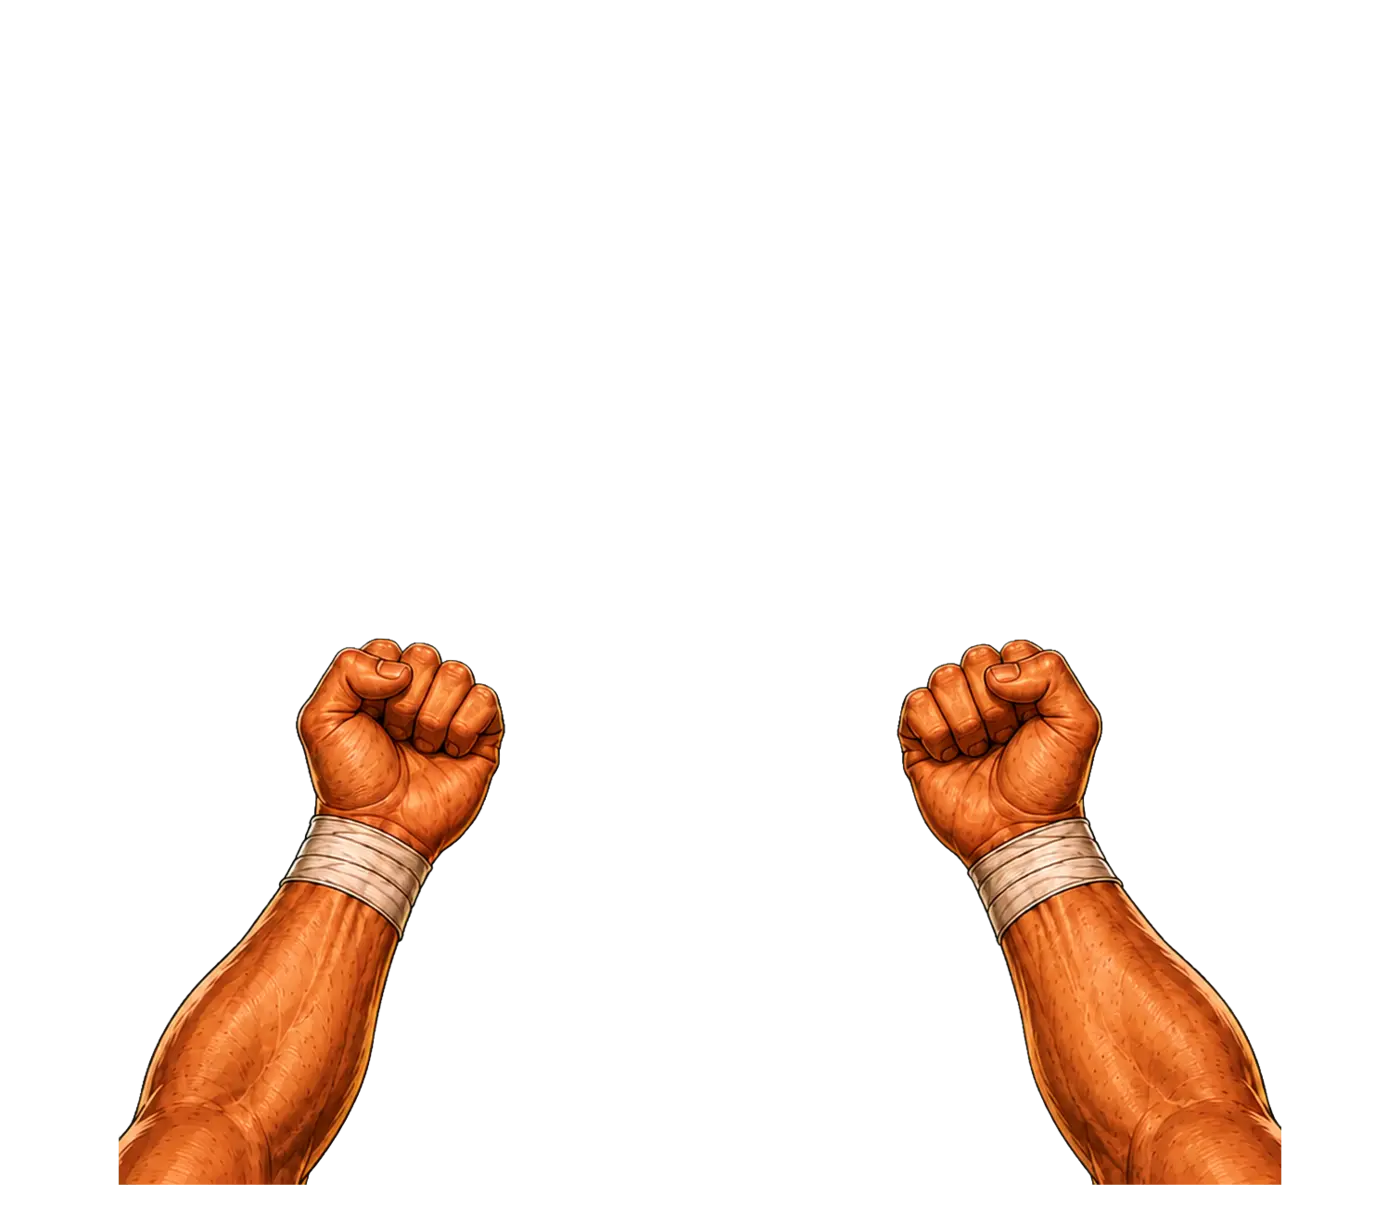
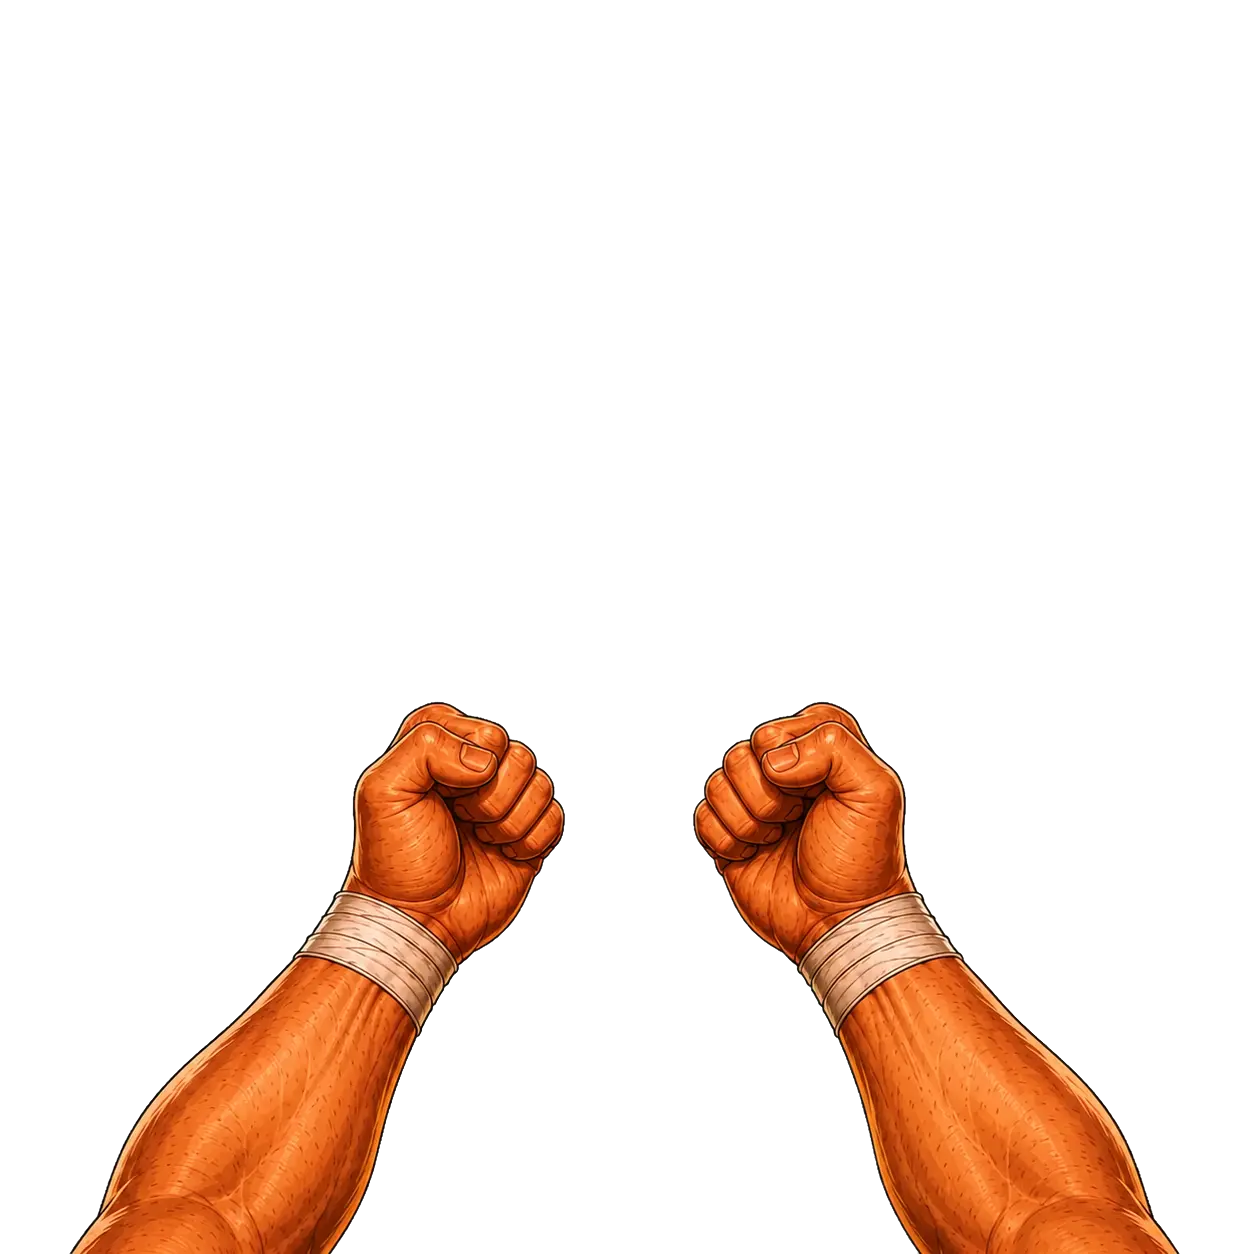
Add files via upload

Changed region(s): [[0.5287, 0.5211, 0.933, 1.0], [0.0622, 0.5211, 0.4665, 1.0]]

diff --git a/src/Game.tsx b/src/Game.tsx
@@ -33,6 +33,7 @@ type PlayerPose =
   | "block"
   | "hit";
 type DodgeDirection = "left" | "right" | null;
+type ResultReason = "knockout" | "time";
 
 const MAX_HEALTH = 100;
 const ROUND_TIME = 90;
@@ -46,6 +47,8 @@ const POSE_ASSETS = [
   asset("/opponent-hit-jab.webp"), asset("/opponent-hit-cross.webp"), asset("/opponent-hit-body.webp"),
   asset("/player-guard.webp"), asset("/player-jab-left.webp"), asset("/player-cross-right.webp"),
   asset("/player-body-hook.webp"), asset("/player-block.webp"), asset("/player-hit.webp"), asset("/opponent-victory.webp"),
+  asset("/opponent-victory-left.webp"), asset("/opponent-victory-right.webp"),
+  asset("/championship-belt.webp"),
 ];
 
 function clamp(value: number, min = 0, max = 100) {
@@ -82,6 +85,7 @@ export default function Home() {
   const [enemyCount, setEnemyCount] = useState(1);
   const [enemyRiseAt, setEnemyRiseAt] = useState<number | null>(null);
   const [performanceMode, setPerformanceMode] = useState(false);
+  const [resultReason, setResultReason] = useState<ResultReason>("knockout");
 
   const matchRef = useRef(matchState);
   const enemyHealthRef = useRef(enemyHealth);
@@ -274,8 +278,9 @@ export default function Home() {
     osc.stop(now + (kind === "ko" ? 0.9 : 0.15));
   }, []);
 
-  const finishMatch = useCallback((result: "won" | "lost") => {
+  const finishMatch = useCallback((result: "won" | "lost", reason: ResultReason = "knockout") => {
     const resultActionId = ++playerActionRef.current;
+    setResultReason(reason);
     matchRef.current = result;
     setMatchState(result);
     setShowRematch(false);
@@ -287,6 +292,10 @@ export default function Home() {
       setEnemyPoseSafe("knockout");
       setCallout("KNOCKOUT!");
       playSound("ko");
+    } else if (reason === "time") {
+      setPlayerPose("idle");
+      setCallout("TIME'S UP!");
+      playSound("bell");
     } else {
       setPlayerPose("hit");
       setCallout("YOU'RE DOWN");
@@ -313,6 +322,7 @@ export default function Home() {
     setGuard(100);
     guardRef.current = 100;
     setTimer(ROUND_TIME);
+    setResultReason("knockout");
     setEnemyPoseSafe("idle");
     setPlayerPose("idle");
     setDodgeDirection(null);
@@ -471,7 +481,7 @@ export default function Home() {
       setTimer((value) => {
         if (value <= 1) {
           const result = enemyHealthRef.current < playerHealthRef.current ? "won" : "lost";
-          finishMatch(result);
+          finishMatch(result, "time");
           return 0;
         }
         return value - 1;
@@ -1034,12 +1044,20 @@ export default function Home() {
             {matchState === "lost" ? (
               <>
                 <div className="defeat-scene" aria-hidden="true">
-                  <img className="victory-mohawk" src={asset("/opponent-victory.webp")} alt="" draggable={false} />
-                  <img className="defeated-player" src={asset("/player-hit.webp")} alt="" draggable={false} />
+                  <div className="victory-mohawk-stage">
+                    <img className="victory-mohawk victory-both" src={asset("/opponent-victory.webp")} alt="" draggable={false} />
+                    <img className="victory-mohawk victory-left" src={asset("/opponent-victory-left.webp")} alt="" draggable={false} />
+                    <img className="victory-mohawk victory-right" src={asset("/opponent-victory-right.webp")} alt="" draggable={false} />
+                  </div>
+                  {resultReason === "knockout" && <img className="defeated-player" src={asset("/player-hit.webp")} alt="" draggable={false} />}
                 </div>
-                <div className="defeat-copy">
-                  <p>OFFICIAL RESULT · KNOCKOUT</p>
-                  <h2>THE MOHAWK WINS</h2>
+                <div className={`defeat-copy ${resultReason === "time" ? "time-result" : ""}`}>
+                  <p>{resultReason === "time" ? "OFFICIAL RESULT · TIME LIMIT" : "OFFICIAL RESULT · KNOCKOUT"}</p>
+                  {resultReason === "time" ? (
+                    <h2><span>TIME'S UP!</span><small>MOHAWK WINS</small></h2>
+                  ) : (
+                    <h2>THE MOHAWK WINS</h2>
+                  )}
                   <div className="result-stats">
                     <span><em>SCORE</em><strong>{score.toLocaleString()}</strong></span>
                     <span><em>KNOCKDOWNS</em><strong>{playerKnockdowns}</strong></span>
@@ -1055,10 +1073,9 @@ export default function Home() {
             ) : (
               <div className="champion-screen">
                 <div className="gold-confetti" aria-hidden="true">
-                  {Array.from({ length: 18 }).map((_, index) => <i key={index} />)}
+                  {Array.from({ length: 32 }).map((_, index) => <i key={index} />)}
                 </div>
-                <img className="fallen-mohawk" src={asset("/opponent-guard.webp")} alt="" draggable={false} />
-                <img className="champion-arms" src={asset("/player-block.webp")} alt="" draggable={false} />
+                <img className="championship-belt" src={asset("/championship-belt.webp")} alt="Gold championship belt with black leather" draggable={false} />
                 <div className="champion-copy">
                   <p>FOUR KNOCKDOWNS · TEN COUNT</p>
                   <h2>YOU DEFEATED<br /><span>THE MOHAWK</span></h2>

diff --git a/src/styles.css b/src/styles.css
@@ -260,7 +260,7 @@ button { font: inherit; touch-action:manipulation; -webkit-user-select:none; use
 .player-jab-left .player-main-art { animation:jabPose 145ms cubic-bezier(.12,.78,.18,1) both; transform-origin:38% 86%; }
 .player-cross-right .player-main-art { animation:crossPose 175ms cubic-bezier(.08,.72,.16,1) both; transform-origin:68% 88%; }
 .player-body-hook .player-main-art { animation:bodyHookPose 175ms cubic-bezier(.12,.74,.2,1) both; transform-origin:32% 88%; }
-.player-block .player-pose-art { width:78%; height:78%; bottom:-4%; }
+.player-block .player-pose-art { width:78%; height:78%; bottom:8%; }
 .arm { position:absolute; bottom:-9%; width:13.5%; height:38%; border-radius:45% 45% 17% 17%; background:linear-gradient(90deg,#5a2719,#ad5735 35%,#d48355 63%,#71301d); box-shadow:inset -10px -3px 15px rgba(49,15,8,.45),0 10px 20px #000; transform-origin:50% 100%; transition:transform .13s cubic-bezier(.2,.8,.2,1); }
 .arm-left { left:19%; transform:rotate(14deg); }
 .arm-right { right:19%; transform:rotate(-14deg); }
@@ -348,20 +348,31 @@ button { font: inherit; touch-action:manipulation; -webkit-user-select:none; use
 .result-overlay .fight-button { width:min(360px,70vw); }
 .result-overlay.lost { overflow:hidden; background:radial-gradient(circle at 50% 43%,rgba(66,34,19,.42),rgba(3,4,3,.94) 76%); }
 .defeat-scene { position:absolute; z-index:1; inset:0; overflow:hidden; pointer-events:none; }
-.victory-mohawk { position:absolute; left:50%; bottom:3%; width:min(66%,820px); height:88%; object-fit:contain; object-position:center bottom; transform:translateX(-50%); filter:drop-shadow(0 14px 16px #000); animation:victoryRise .7s cubic-bezier(.15,.8,.2,1) both; }
+.victory-mohawk-stage { position:absolute; left:50%; bottom:3%; width:min(66%,820px); height:88%; transform:translateX(-50%); animation:victoryRise .7s cubic-bezier(.15,.8,.2,1) both; }
+.victory-mohawk { position:absolute; inset:0; width:100%; height:100%; object-fit:contain; object-position:center bottom; filter:drop-shadow(0 14px 16px #000); opacity:0; }
+.victory-both { animation:victoryBothCycle 8s steps(1,end) infinite; }
+.victory-left { animation:victoryLeftCycle 8s steps(1,end) infinite; }
+.victory-right { animation:victoryRightCycle 8s steps(1,end) infinite; }
 .defeated-player { position:absolute; z-index:2; left:50%; bottom:-30%; width:min(92%,1100px); height:68%; object-fit:contain; object-position:center bottom; transform:translateX(-50%) rotate(5deg); opacity:.78; filter:brightness(.48) saturate(.7) drop-shadow(0 -8px 12px #000); }
 .defeat-copy { position:absolute; z-index:4; inset:3% 4% 4%; display:flex; flex-direction:column; align-items:center; text-align:center; pointer-events:none; }
 .defeat-copy>p { margin:0; color:var(--gold); font:900 clamp(.56rem,1vw,.9rem)/1 Arial,sans-serif; letter-spacing:.2em; }
 .defeat-copy h2 { margin:.25rem 0 .6rem; color:#f3ecdf; font-size:clamp(2.4rem,6vw,6rem); line-height:.86; text-shadow:5px 6px var(--blood),9px 10px #000; }
+.defeat-copy.time-result h2 { display:flex; flex-direction:column; gap:.14em; margin:.35rem 0 .7rem; }
+.defeat-copy.time-result h2 span { color:var(--gold); font-size:1.08em; letter-spacing:.01em; }
+.defeat-copy.time-result h2 small { color:#f3ecdf; font:1000 .52em/.9 Impact,Haettenschweiler,"Arial Narrow Bold",sans-serif; letter-spacing:.075em; text-shadow:4px 5px var(--blood),8px 9px #000; }
 .defeat-copy .result-stats { margin:0; }
 .defeat-copy .rematch-button { margin-top:auto; pointer-events:auto; animation:rematchReveal .38s ease-out both; }
 .victory-delay { margin-top:auto; width:min(360px,70vw); padding:1rem; color:var(--gold); background:#080908bb; border:1px solid #6d5941; font:900 clamp(.7rem,1vw,.9rem)/1 Arial,sans-serif; letter-spacing:.14em; animation:victoryPulse .6s ease-in-out infinite alternate; }
 @keyframes victoryRise { from{transform:translateX(-50%) translateY(8%) scale(.92);opacity:0} to{transform:translateX(-50%);opacity:1} }
+@keyframes victoryBothCycle { 0%,24.99%,75%,100%{opacity:1}25%,74.99%{opacity:0} }
+@keyframes victoryLeftCycle { 0%,24.99%,50%,100%{opacity:0}25%,49.99%{opacity:1} }
+@keyframes victoryRightCycle { 0%,49.99%,75%,100%{opacity:0}50%,74.99%{opacity:1} }
 @keyframes rematchReveal { from{opacity:0;transform:translateY(18px)} to{opacity:1;transform:translateY(0)} }
 @keyframes victoryPulse { to{color:#fff;border-color:var(--gold)} }
 
 .result-overlay.won { overflow:hidden; background:radial-gradient(circle at 50% 38%,rgba(92,57,16,.45),rgba(3,4,3,.93) 75%); }
 .champion-screen { position:absolute; inset:0; overflow:hidden; }
+.championship-belt { position:absolute; z-index:3; left:50%; top:52%; width:min(74%,980px); height:auto; transform:translate(-50%,-50%); object-fit:contain; filter:drop-shadow(0 18px 22px #000) brightness(1.03); animation:beltVictory 1.05s cubic-bezier(.12,.82,.18,1) both,beltShimmer 1.8s ease-in-out 1.05s infinite alternate; }
 .fallen-mohawk { position:absolute; z-index:1; left:50%; bottom:-32%; width:min(58%,700px); height:70%; object-fit:contain; transform:translateX(-50%) rotate(78deg); filter:brightness(.38) saturate(.55); opacity:.78; }
 .champion-arms { position:absolute; z-index:3; left:50%; bottom:-17%; width:min(82%,1050px); height:72%; object-fit:contain; transform:translateX(-50%) scale(1.12); filter:drop-shadow(0 -8px 12px #000); animation:championArmsRise .72s cubic-bezier(.12,.82,.18,1) both; }
 .champion-copy { position:absolute; z-index:5; inset:4% 4% 4%; display:flex; flex-direction:column; align-items:center; text-align:center; pointer-events:none; }
@@ -372,9 +383,14 @@ button { font: inherit; touch-action:manipulation; -webkit-user-select:none; use
 .champion-copy .result-stats { margin:0; }
 .champion-copy .rematch-button { margin-top:auto; pointer-events:auto; animation:rematchReveal .38s ease-out both; }
 .gold-confetti { position:absolute; z-index:4; inset:0; pointer-events:none; }
-.gold-confetti i { position:absolute; top:-8%; left:calc((var(--n, 1) * 5.25%)); width:8px; height:18px; background:var(--gold); box-shadow:0 0 5px #000; animation:confettiFall 2.2s linear infinite; animation-delay:calc(var(--n, 1) * -.13s); transform:rotate(calc(var(--n, 1) * 19deg)); }
+.gold-confetti i { position:absolute; top:-10%; left:calc((var(--n, 1) * 3.05%)); width:10px; height:20px; border-radius:2px; background:linear-gradient(90deg,#8c5510,#ffe783 45%,#d49019 72%,#6d3e09); box-shadow:0 0 8px rgba(255,198,55,.65),0 2px 4px #000; animation:confettiFall 2.35s linear infinite; animation-delay:calc(var(--n, 1) * -.11s); transform:rotate(calc(var(--n, 1) * 19deg)); }
+.gold-confetti i:nth-child(3n) { width:14px; height:14px; border-radius:50%; background:radial-gradient(circle at 35% 30%,#fff0a0,#e2a325 48%,#7a450b 78%); }
+.gold-confetti i:nth-child(4n) { width:7px; height:25px; }
 .gold-confetti i:nth-child(1){--n:1}.gold-confetti i:nth-child(2){--n:2}.gold-confetti i:nth-child(3){--n:3}.gold-confetti i:nth-child(4){--n:4}.gold-confetti i:nth-child(5){--n:5}.gold-confetti i:nth-child(6){--n:6}.gold-confetti i:nth-child(7){--n:7}.gold-confetti i:nth-child(8){--n:8}.gold-confetti i:nth-child(9){--n:9}.gold-confetti i:nth-child(10){--n:10}.gold-confetti i:nth-child(11){--n:11}.gold-confetti i:nth-child(12){--n:12}.gold-confetti i:nth-child(13){--n:13}.gold-confetti i:nth-child(14){--n:14}.gold-confetti i:nth-child(15){--n:15}.gold-confetti i:nth-child(16){--n:16}.gold-confetti i:nth-child(17){--n:17}.gold-confetti i:nth-child(18){--n:18}
+.gold-confetti i:nth-child(19){--n:19}.gold-confetti i:nth-child(20){--n:20}.gold-confetti i:nth-child(21){--n:21}.gold-confetti i:nth-child(22){--n:22}.gold-confetti i:nth-child(23){--n:23}.gold-confetti i:nth-child(24){--n:24}.gold-confetti i:nth-child(25){--n:25}.gold-confetti i:nth-child(26){--n:26}.gold-confetti i:nth-child(27){--n:27}.gold-confetti i:nth-child(28){--n:28}.gold-confetti i:nth-child(29){--n:29}.gold-confetti i:nth-child(30){--n:30}.gold-confetti i:nth-child(31){--n:31}.gold-confetti i:nth-child(32){--n:32}
 @keyframes confettiFall { to{translate:calc((var(--n, 1) - 9) * 2px) 115vh;rotate:540deg} }
+@keyframes beltVictory { from{transform:translate(-50%,-42%) scale(.72);opacity:0;filter:drop-shadow(0 8px 10px #000) brightness(.7)} to{transform:translate(-50%,-50%) scale(1);opacity:1} }
+@keyframes beltShimmer { from{filter:drop-shadow(0 18px 22px #000) brightness(.96) saturate(.96)} to{filter:drop-shadow(0 18px 25px #000) brightness(1.18) saturate(1.12)} }
 @keyframes championArmsRise { from{transform:translateX(-50%) translateY(24%) scale(.9);opacity:0} to{transform:translateX(-50%) scale(1.12);opacity:1} }
 
 .knockdown-overlay { z-index:72; display:flex; flex-direction:column; justify-content:center; gap:.35rem; padding:5%; color:#f4ecdf; text-align:center; background:radial-gradient(circle,rgba(91,20,13,.42),rgba(3,4,3,.92) 68%); }
@@ -419,13 +435,13 @@ button { font: inherit; touch-action:manipulation; -webkit-user-select:none; use
 @keyframes playerHit { 30%{transform:translateY(5%) rotate(3deg) scale(1.06)} }
 @keyframes jabPose {
   0% { transform:translateX(-50%) translate(-5%,7%) scale(.86); filter:drop-shadow(0 9px 10px #120605aa) blur(.7px); }
-  52% { transform:translateX(-50%) translate(1%,-2%) scale(1.025); }
+  52% { transform:translateX(-50%) translate(7%,-3%) scale(1.025); }
   100% { transform:translateX(-50%) scale(1); filter:drop-shadow(0 9px 10px #120605aa); }
 }
 @keyframes crossPose {
   0% { transform:translateX(-50%) translate(9%,9%) rotate(7deg) scale(.82); filter:drop-shadow(0 9px 10px #120605aa) blur(.8px); }
-  56% { transform:translateX(-50%) translate(-3%,-4%) rotate(-4deg) scale(1.07); }
-  100% { transform:translateX(-50%) translate(-1%,-1%) rotate(-2deg) scale(1.025); filter:drop-shadow(0 11px 12px #120605cc); }
+  56% { transform:translateX(-50%) translate(-11%,-5%) rotate(-3deg) scale(1.07); }
+  100% { transform:translateX(-50%) translate(-2%,-1%) rotate(-1deg) scale(1.025); filter:drop-shadow(0 11px 12px #120605cc); }
 }
 @keyframes bodyHookPose {
   0% { transform:translateX(-50%) translate(-13%,12%) rotate(-12deg) scale(.82); filter:drop-shadow(0 9px 10px #120605aa) blur(.8px); }
@@ -488,7 +504,7 @@ button { font: inherit; touch-action:manipulation; -webkit-user-select:none; use
   .preload-overlay { display:grid; padding:10vh 7vw 12vh; gap:3rem; }
   .preload-lockup h1 { font-size:17vw; }
   .preload-status { width:86vw; }
-  .victory-mohawk { width:105%; height:80%; bottom:9%; }
+  .victory-mohawk-stage { width:105%; height:80%; bottom:9%; }
   .defeated-player { width:125%; height:58%; bottom:-23%; }
   .defeat-copy { inset:4% 3% max(3%,env(safe-area-inset-bottom)); }
   .defeat-copy h2 { font-size:10vw; }
@@ -496,8 +512,7 @@ button { font: inherit; touch-action:manipulation; -webkit-user-select:none; use
   .enemy-count-overlay strong { font-size:30vw; }
   .champion-copy { inset:4% 3% max(3%,env(safe-area-inset-bottom)); }
   .champion-copy h2 { font-size:11vw; }
-  .champion-arms { width:128%; height:62%; bottom:-10%; }
-  .fallen-mohawk { width:105%; height:54%; bottom:-18%; }
+  .championship-belt { top:50%; width:96%; }
 }
 
 @media (pointer:coarse) {